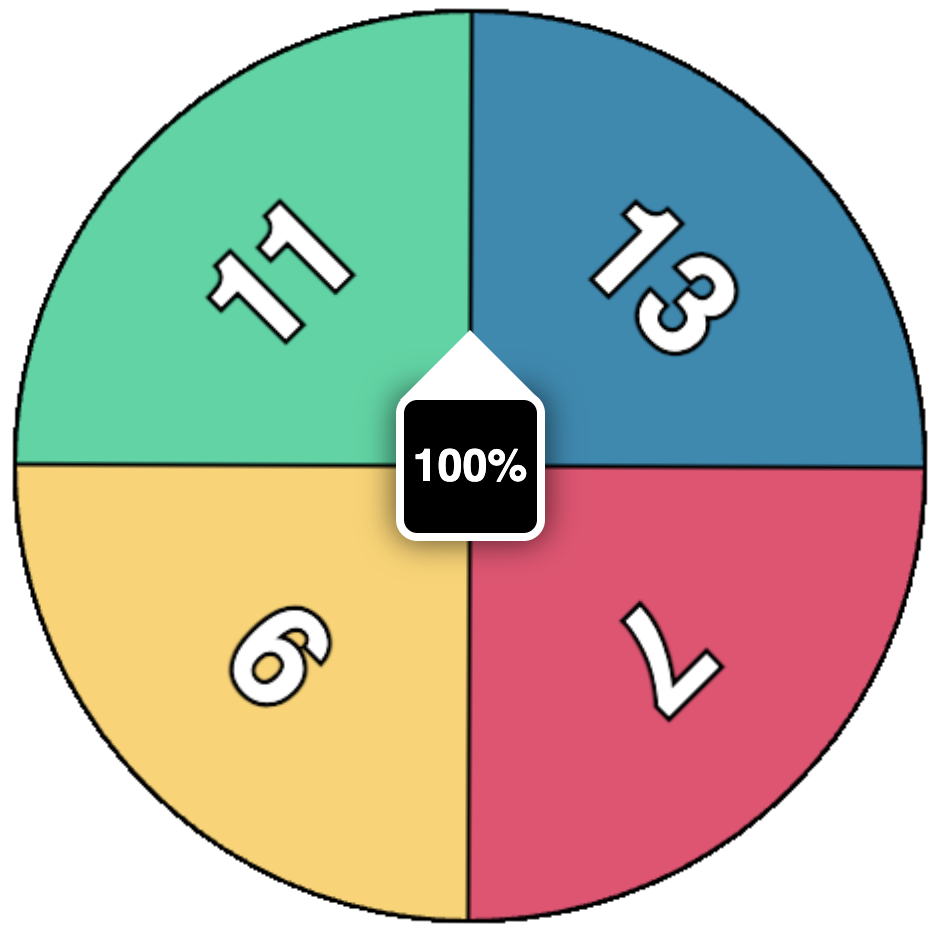
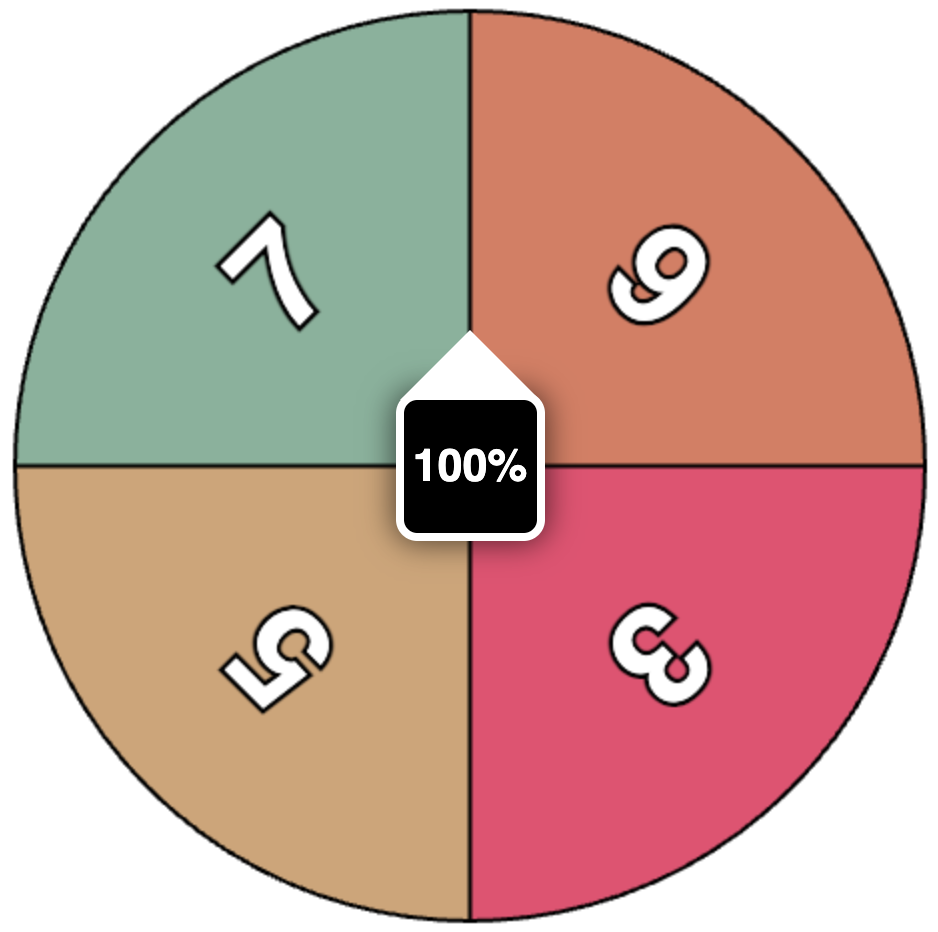
40/70/100

diff --git a/jsFiles/exp.js b/jsFiles/exp.js
@@ -39,7 +39,7 @@ const exp = (function() {
             </div>`,
 
             `<div class='parent'>
-                <p>Usually, the activated wedge is the one the arrow points to when the wheel stops.</p>
+                <p>Typically, the activated wedge is the one the arrow points to when the wheel stops.</p>
                 <p>This is called a "standard outcome."</p>
                 <p>Below is an example of a standard outcome.</p>
                 <img src="./img/standard-outcome.png" style="width:50%; height:50%">
@@ -54,8 +54,8 @@ const exp = (function() {
 
             `<div class='parent'>
                 <p>The chance of a standard outcome is displayed at the center of each wheel.</p>
-                <p>This wheel has an 80% chance of a standard outcome and a 20% chance of a random outcome:</p>
-                <img src="./img/arrow-80-up.png" style="width:50%; height:50%">      
+                <p>This wheel has an 70% chance of a standard outcome and a 30% chance of a random outcome:</p>
+                <img src="./img/arrow-70-up.png" style="width:50%; height:50%">      
             </div>`,
 
             `<div class='parent'>
@@ -63,8 +63,8 @@ const exp = (function() {
             </div>`,
 
             `<div class='parent'>
-                <p>This wheel has a 60% chance of a standard outcome and a 40% chance of a random outcome:</p>
-                <img src="./img/arrow-60-up.png" style="width:50%; height:50%">      
+                <p>This wheel has a 40% chance of a standard outcome and a 60% chance of a random outcome:</p>
+                <img src="./img/arrow-40-up.png" style="width:50%; height:50%">      
             </div>`,
 
             `<div class='parent'>
@@ -78,22 +78,22 @@ const exp = (function() {
 
             `<div class='parent'>
                 <p>Sometimes the arrow will point up:</p>
-                <img src="./img/arrow-80-up.png" style="width:50%; height:50%">      
+                <img src="./img/arrow-70-up.png" style="width:50%; height:50%">      
             </div>`,
 
             `<div class='parent'>
                 <p>Sometimes the arrow will point right:</p>
-                <img src="./img/arrow-80-right.png" style="width:50%; height:50%">      
+                <img src="./img/arrow-70-right.png" style="width:50%; height:50%">      
             </div>`,
 
             `<div class='parent'>
                 <p>Sometimes the arrow will point left:</p>
-                <img src="./img/arrow-80-left.png" style="width:50%; height:50%">      
+                <img src="./img/arrow-70-left.png" style="width:50%; height:50%">      
             </div>`,
 
             `<div class='parent'>
                 <p>Sometimes the arrow will point down:</p>
-                <img src="./img/arrow-80-down.png" style="width:50%; height:50%">      
+                <img src="./img/arrow-70-down.png" style="width:50%; height:50%">      
             </div>`],
 
         postIntro: [
@@ -132,7 +132,7 @@ const exp = (function() {
         allow_keys: false,
     };
 
-    let correctAnswers = [`60%`, `80%`, `100%`, `Earn as many points as possible.`];
+    let correctAnswers = [`40%`, `70%`, `100%`, `Earn as many points as possible.`];
 
     const errorMessage = {
         type: jsPsychInstructions,
@@ -148,19 +148,19 @@ const exp = (function() {
             </div>`,
         questions: [
             {
-                prompt: `What are your chances of earning 10 points if you land on a 10 and the wheel says "60%"?`, 
+                prompt: `What are your chances of earning 10 points if you land on a 10 and the wheel says "40%"?`, 
                 name: `attnChk1`, 
-                options: [`60%`, `80%`, `100%`],
+                options: [`40%`, `70%`, `100%`],
             },
             {
-                prompt: `What are your chances of earning 10 points if you land on a 10 and the wheel says "80%"?`, 
+                prompt: `What are your chances of earning 10 points if you land on a 10 and the wheel says "70%"?`, 
                 name: `attnChk2`, 
-                options: [`60%`, `80%`, `100%`],
+                options: [`40%`, `70%`, `100%`],
             },
             {
                 prompt: `What are your chances of earning 10 points if you land on a 10 and the wheel says "100%"?`, 
                 name: `attnChk3`, 
-                options: [`60%`, `80%`, `100%`],
+                options: [`40%`, `70%`, `100%`],
             },
             {
                 prompt: `What is your goal?`, 
@@ -227,15 +227,15 @@ const exp = (function() {
         five: {color: colors[0][2], font: 'white', label:"5", points: 5},
         seven: {color: colors[0][3], font: 'white', label:"7", points: 7},
 
-        four: {color: colors[1][0], font: 'white', label:"4", points: 4},
-        six: {color: colors[1][1], font: 'white', label:"6", points: 6},
-        eight: {color: colors[1][2], font: 'white', label:"8", points: 8},
-        ten: {color: colors[1][3], font: 'white', label:"10", points: 10},
+        three: {color: colors[1][0], font: 'white', label:"3", points: 3},
+        five: {color: colors[1][1], font: 'white', label:"5", points: 5},
+        seven: {color: colors[1][2], font: 'white', label:"7", points: 7},
+        nine: {color: colors[1][3], font: 'white', label:"9", points: 9},
 
-        seven: {color: colors[2][0], font: 'white', label:"7", points: 7},
-        nine: {color: colors[2][1], font: 'white', label:"9", points: 9},
-        eleven: {color: colors[2][2], font: 'white', label:"11", points: 11},
-        thirteen: {color: colors[2][3], font: 'white', label:"13", points: 13},
+        five: {color: colors[2][0], font: 'white', label:"5", points: 5},
+        seven: {color: colors[2][1], font: 'white', label:"7", points: 7},
+        nine: {color: colors[2][2], font: 'white', label:"9", points: 9},
+        eleven: {color: colors[2][3], font: 'white', label:"11", points: 11},
     };
 
 
@@ -243,16 +243,16 @@ const exp = (function() {
     const wheels = [
 
             {sectors: [ wedges.one, wedges.three, wedges.five, wedges.seven ], wheel_id: 1, reliability: 1, label: "100%", ev: 4, sd: 2, mi: 2},
-            {sectors: [ wedges.one, wedges.three, wedges.five, wedges.seven ], wheel_id: 2, reliability: .8, label: "80%", ev: 4, sd: 2, mi: .961},
-            {sectors: [ wedges.one, wedges.three, wedges.five, wedges.seven ], wheel_id: 3, reliability: .6, label: "60%", ev: 4, sd: 2, mi: .395},
+            {sectors: [ wedges.one, wedges.three, wedges.five, wedges.seven ], wheel_id: 2, reliability: .7, label: "70%", ev: 4, sd: 2, mi: .643},
+            {sectors: [ wedges.one, wedges.three, wedges.five, wedges.seven ], wheel_id: 3, reliability: .4, label: "40%", ev: 4, sd: 2, mi: .078},
 
-            {sectors: [ wedges.four, wedges.six, wedges.eight, wedges.ten ], wheel_id: 4, reliability: 1, label: "100%", ev: 7, sd: 2, mi: 2},
-            {sectors: [ wedges.four, wedges.six, wedges.eight, wedges.ten ], wheel_id: 5, reliability: .8, label: "80%", ev: 7, sd: 2, mi: .961},
-            {sectors: [ wedges.four, wedges.six, wedges.eight, wedges.ten ], wheel_id: 6, reliability: .6, label: "60%", ev: 7, sd: 2, mi: .395},
+            {sectors: [ wedges.three, wedges.five, wedges.seven, wedges.nine ], wheel_id: 4, reliability: 1, label: "100%", ev: 6, sd: 2, mi: 2},
+            {sectors: [ wedges.three, wedges.five, wedges.seven, wedges.nine ], wheel_id: 5, reliability: .7, label: "70%", ev: 6, sd: 2, mi: .643},
+            {sectors: [ wedges.three, wedges.five, wedges.seven, wedges.nine ], wheel_id: 6, reliability: .4, label: "40%", ev: 6, sd: 2, mi: .078},
 
-            {sectors: [ wedges.seven, wedges.nine, wedges.eleven, wedges.thirteen ], wheel_id: 7, reliability: 1, label: "100%", ev: 10, sd: 2, mi: 2},
-            {sectors: [ wedges.seven, wedges.nine, wedges.eleven, wedges.thirteen ], wheel_id: 8, reliability: .8, label: "80%", ev: 10, sd: 2, mi: .961},
-            {sectors: [ wedges.seven, wedges.nine, wedges.eleven, wedges.thirteen ], wheel_id: 9, reliability: .6, label: "60%", ev: 10, sd: 2, mi: .395},
+            {sectors: [ wedges.five, wedges.seven, wedges.nine, wedges.eleven ], wheel_id: 7, reliability: 1, label: "100%", ev: 8, sd: 2, mi: 2},
+            {sectors: [ wedges.five, wedges.seven, wedges.nine, wedges.eleven ], wheel_id: 8, reliability: .7, label: "70%", ev: 8, sd: 2, mi: .643},
+            {sectors: [ wedges.five, wedges.seven, wedges.nine, wedges.eleven ], wheel_id: 9, reliability: .4, label: "40%", ev: 8, sd: 2, mi: .078},
 
         ];
 
@@ -279,7 +279,7 @@ const exp = (function() {
     const flowMeasure = {
         type: jsPsychSurveyLikert,
         questions: [
-            {prompt: `During the last round,<br>how <b>immersed</b> and <b>engaged</b> did you feel in what you were doing?`,
+            {prompt: `During the last round,<br>how <b>immersed</b> and <b>engaged</b> did you feel spinning the wheel?`,
             name: `flow`,
             labels: ['0<br>A little', '1', '2', '3', '4', '5', '6', '7', '8', '9', '10<br>Extremely']},
         ],
